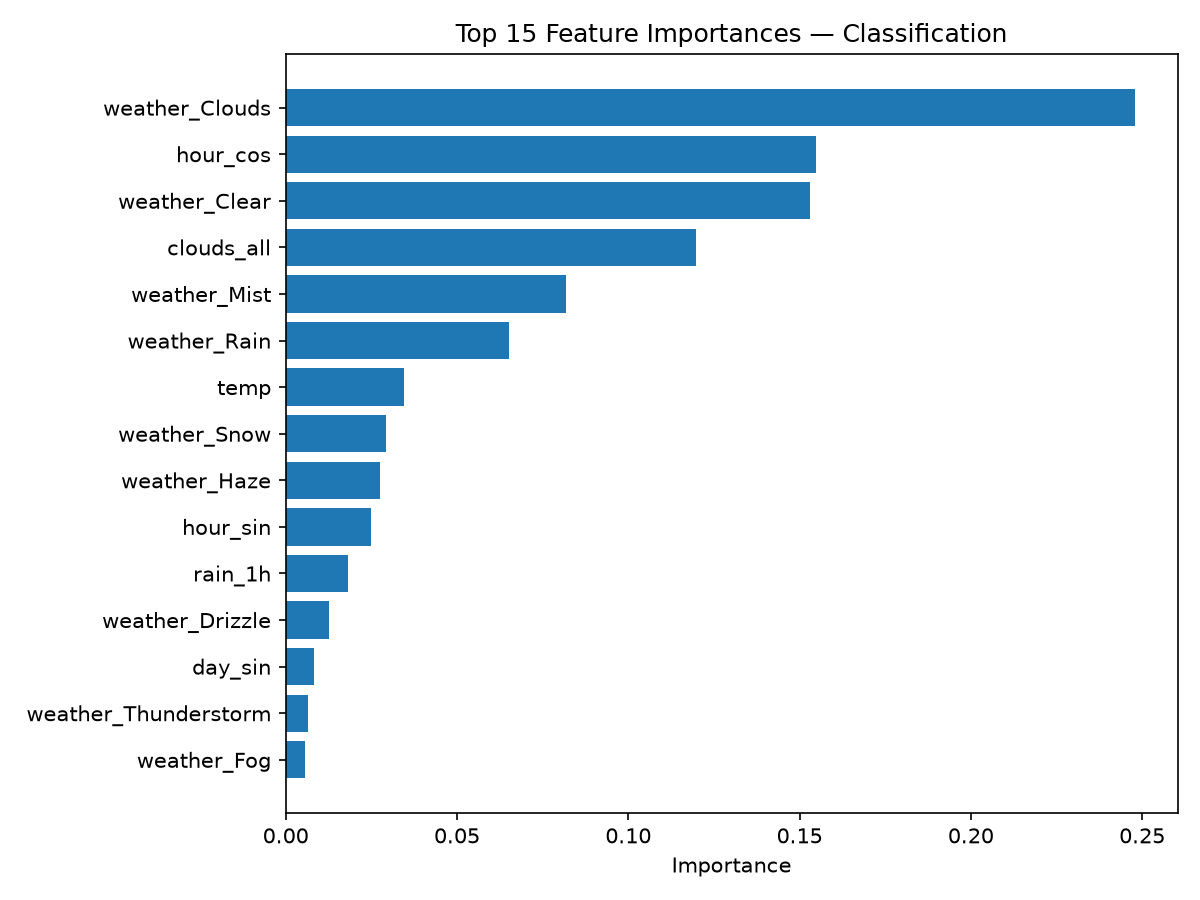
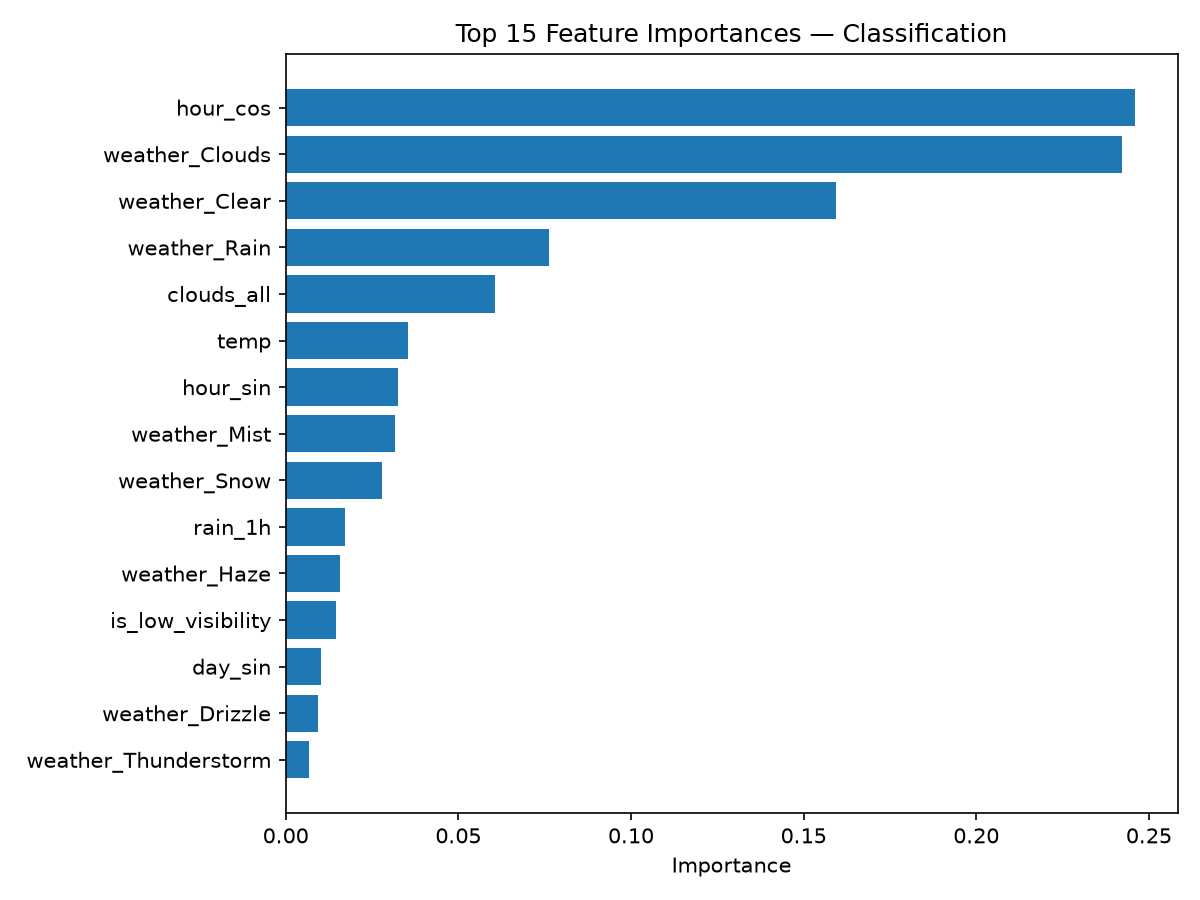
Part 3: correct proxy accident-risk label to match specification

diff --git a/capstone_part3/supervised_ml.py b/capstone_part3/supervised_ml.py
@@ -85,15 +85,16 @@ def prepare_features(df: pd.DataFrame) -> pd.DataFrame:
         labels=["Low", "Medium", "High", "Severe"],
     )
 
-    # High-risk label
-    is_high_congestion = df["congestion_category"].isin(["High", "Severe"])
-    is_severe_weather = df["weather_main"].isin(SEVERE_WEATHER)
-    is_low_visibility = (df["clouds_all"] > 80) & df["weather_main"].isin(
-        LOW_VISIBILITY_WEATHER
-    )
-    df["high_risk"] = (
-        (is_high_congestion & is_severe_weather) | is_low_visibility
+    # is_low_visibility feature: clouds_all > 80 and weather is fog/mist/haze/smoke
+    df["is_low_visibility"] = (
+        (df["clouds_all"] > 80) & df["weather_main"].isin(LOW_VISIBILITY_WEATHER)
     ).astype(int)
+
+    # Proxy accident-risk label (per capstone instructions):
+    # high_risk = high/severe congestion AND (severe weather OR low visibility)
+    is_high_congestion = df["congestion_category"].isin(["High", "Severe"])
+    risky_weather = df["weather_main"].isin(SEVERE_WEATHER) | (df["is_low_visibility"] == 1)
+    df["high_risk"] = (is_high_congestion & risky_weather).astype(int)
 
     # One-hot encode weather_main
     weather_dummies = pd.get_dummies(df["weather_main"], prefix="weather")
@@ -107,7 +108,7 @@ def get_feature_columns(df: pd.DataFrame) -> list[str]:
     """Return the list of feature column names."""
     base_features = [
         "hour_sin", "hour_cos", "day_sin", "day_cos",
-        "is_weekend", "is_holiday",
+        "is_weekend", "is_holiday", "is_low_visibility",
         "temp", "rain_1h", "snow_1h", "clouds_all",
     ]
     weather_cols = [c for c in df.columns if c.startswith("weather_") and c not in ("weather_main", "weather_description")]
